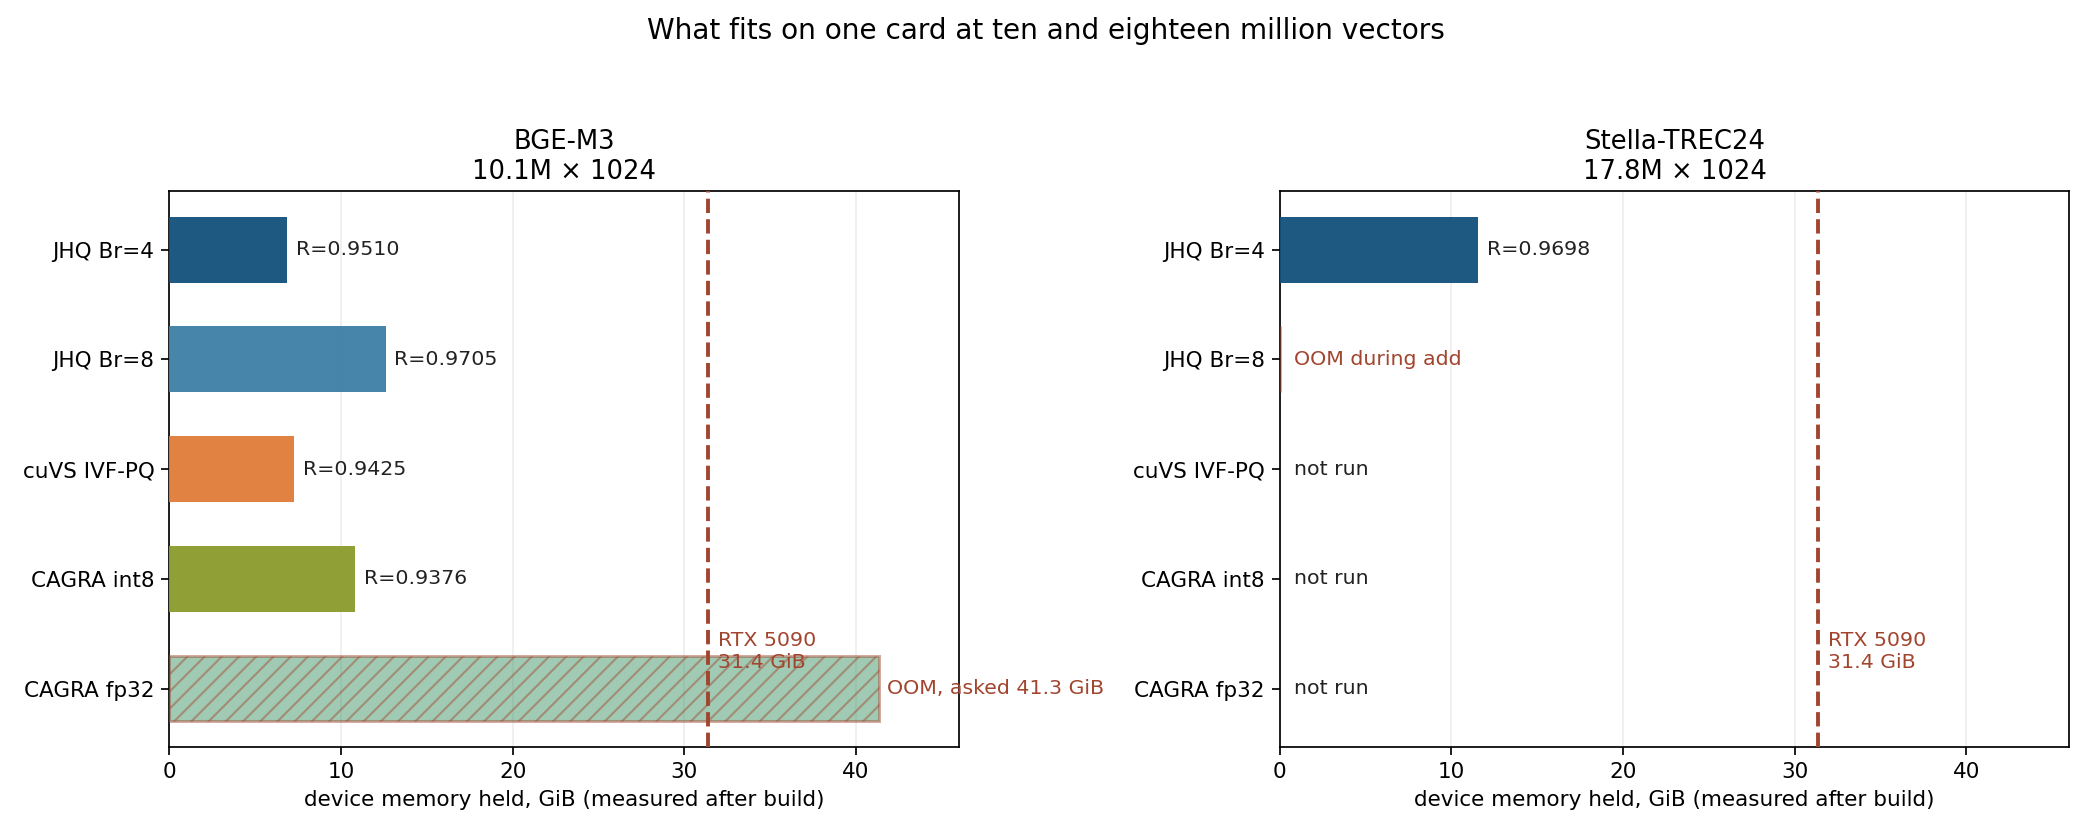
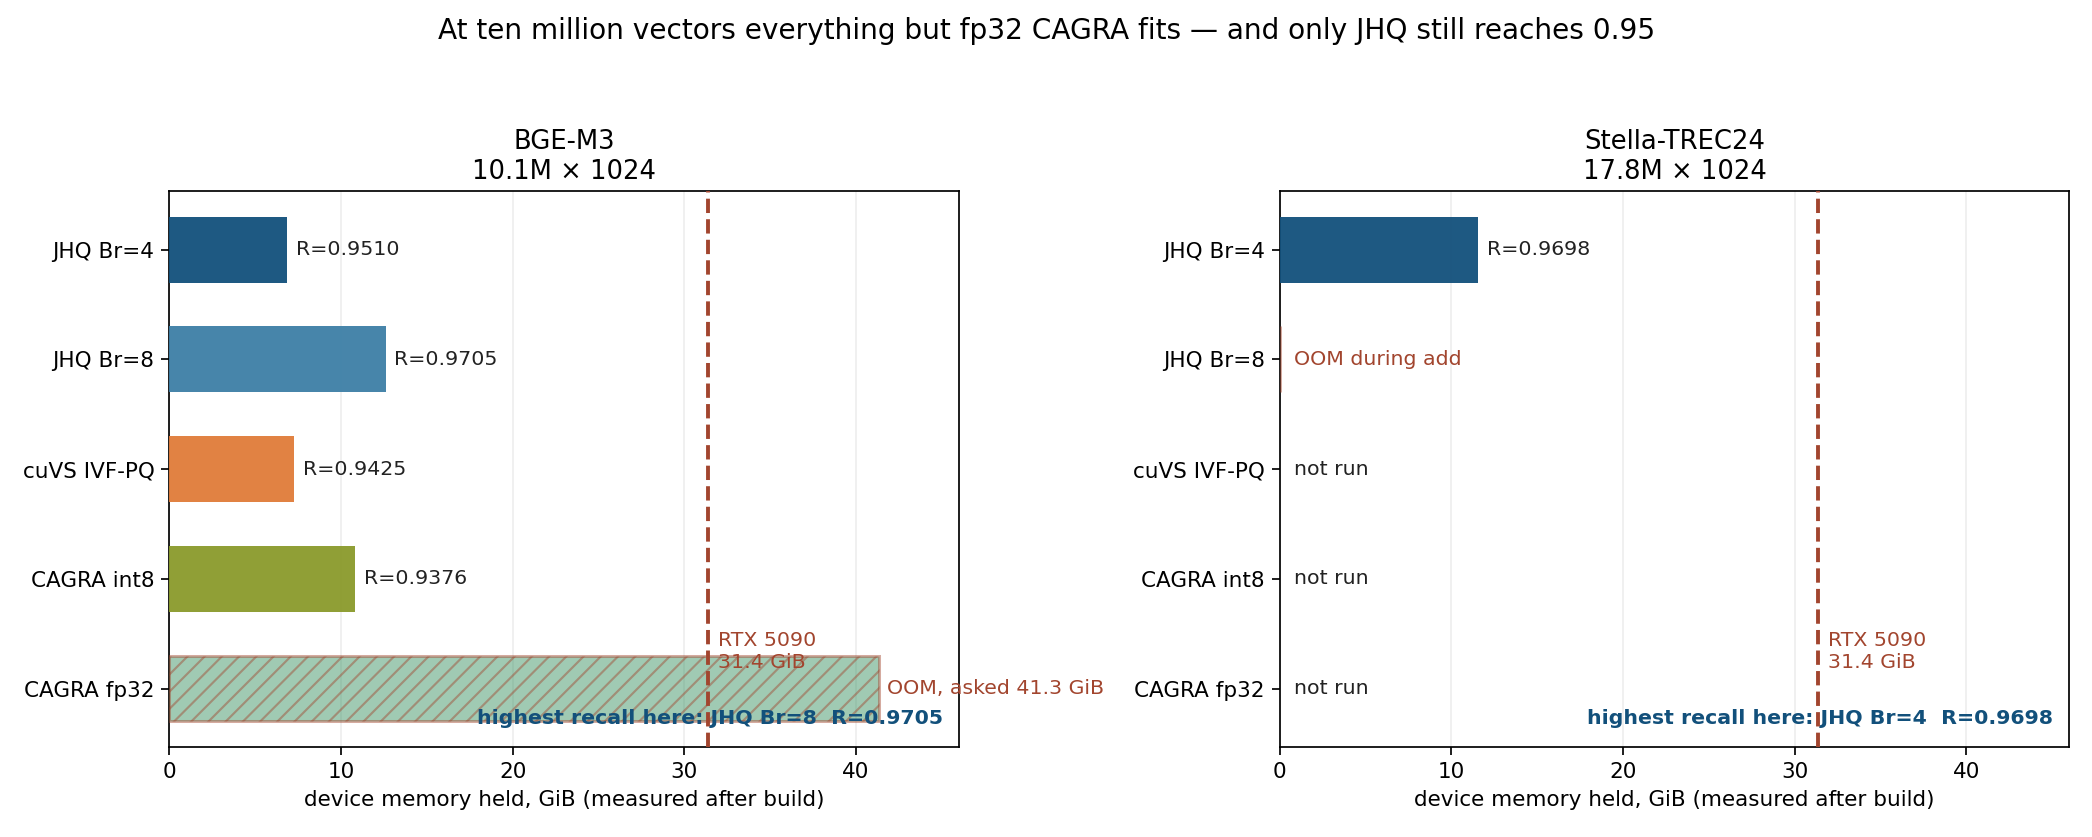
State the scale result as recall at scale, not as fitting
"fp32 CAGRA cannot fit, we can" overclaims: at 10.1M vectors int8 CAGRA fits at
11.1 GiB and IVF-PQ at 7.4 GiB. What the measurements support is narrower and
stronger, because it does not rest on one baseline configuration failing --
the methods that fit cap at 0.9376 and 0.9425, the one with the higher ceiling
asks 41.3 GiB and cannot be loaded, and JHQ is the only method there that both
fits, at the smallest footprint of any of them, and reaches 0.95.

Changed region(s): [[0.2175, 0.0, 0.8078, 0.0621], [0.7457, 0.8387, 0.9943, 0.8698], [0.2175, 0.8387, 0.4661, 0.8698]]

diff --git a/scripts/plot_core3.py b/scripts/plot_core3.py
@@ -171,8 +171,18 @@ def fig_scale():
         ax.set_xlim(0, 46)
         ax.set_xlabel("device memory held, GiB (measured after build)")
         ax.set_title(title, fontsize=12)
+        # the point is not that others fail to fit -- int8 CAGRA and IVF-PQ both
+        # do -- but that the ones which fit cap out below 0.95 while the one with
+        # the higher ceiling cannot be loaded at all
+        ok = [(nm, nt) for nm, nt in zip(names, notes) if nt.startswith("R=")]
+        if ok:
+            best = max(ok, key=lambda t: float(t[1][2:]))
+            ax.text(.98, .04, f"highest recall here: {best[0]}  {best[1]}",
+                    transform=ax.transAxes, ha="right", fontsize=9.5,
+                    color="#12507B", weight="bold")
         ax.grid(alpha=.22, axis="x", zorder=0)
-    fig.suptitle("What fits on one card at ten and eighteen million vectors", fontsize=13)
+    fig.suptitle("At ten million vectors everything but fp32 CAGRA fits — and only JHQ still "
+                 "reaches 0.95", fontsize=13)
     fig.tight_layout(rect=[0, 0, 1, .94])
     fig.savefig(os.path.join(D, "core2_scale.png"), dpi=155)
     print("core2_scale.png")
@@ -202,7 +212,16 @@ def fig_hierarchy():
         ax.axvline(0.95, color="#888", ls=":", lw=1.2)
         ax.set_yscale("log"); ax.set_xlim(0.55, 1.04)
         ax.set_xlabel("Recall@10", fontsize=10.5); ax.set_ylabel("QPS", fontsize=10.5)
-        ax.set_title(title, fontsize=12); ax.grid(alpha=.22, which="both")
+        ax.set_title(title, fontsize=12)
+        # the point is not that others fail to fit -- int8 CAGRA and IVF-PQ both
+        # do -- but that the ones which fit cap out below 0.95 while the one with
+        # the higher ceiling cannot be loaded at all
+        ok = [(nm, nt) for nm, nt in zip(names, notes) if nt.startswith("R=")]
+        if ok:
+            best = max(ok, key=lambda t: float(t[1][2:]))
+            ax.text(.98, .04, f"highest recall here: {best[0]}  {best[1]}",
+                    transform=ax.transAxes, ha="right", fontsize=9.5,
+                    color="#12507B", weight="bold"); ax.grid(alpha=.22, which="both")
     axes[0].legend(fontsize=9.5, loc="lower left")
     fig.suptitle("Same kernel, same IVF, same occupancy and selection — only the residual level "
                  "differs.  Without it nothing reaches 0.95.", fontsize=12.5)

diff --git a/scripts/build_report.py b/scripts/build_report.py
@@ -166,10 +166,13 @@ def main():
                       "so its work grows with d. The recall at which JHQ passes fp32 CAGRA is "
                       "marked: absent at 768, 0.979 at 1536, 0.968 at 3072."),
         core2=img_tag("core2_scale.png",
-                      "Device memory held after the build, against the card. fp32 CAGRA asks "
-                      "for 41.3 GiB at 10.1M vectors and fails; JHQ at four residual bits "
-                      "holds 6.8 GiB and is the only configuration there above 0.95. Our own "
-                      "eight-bit setting fails during add at 17.8M, which is shown too."),
+                      "Device memory held after the build, against the card. Everything except "
+                      "fp32 CAGRA fits at 10.1M vectors -- int8 CAGRA at 11.1 GiB and IVF-PQ at "
+                      "7.4 GiB both run -- but they cap at 0.9376 and 0.9425, while the method "
+                      "with the higher ceiling cannot be loaded at all, asking 41.3 GiB. JHQ "
+                      "holds the least memory of any of them, 6.8 GiB, and is the only one "
+                      "there that reaches 0.95. Our own eight-bit setting fails during add at "
+                      "17.8M, which is shown too."),
         core3=img_tag("core3_hierarchy.png",
                       "Residual level off, on at four bits, on at eight. Same kernel, same "
                       "IVF, same occupancy and selection -- the gap is the quantiser, not the "
